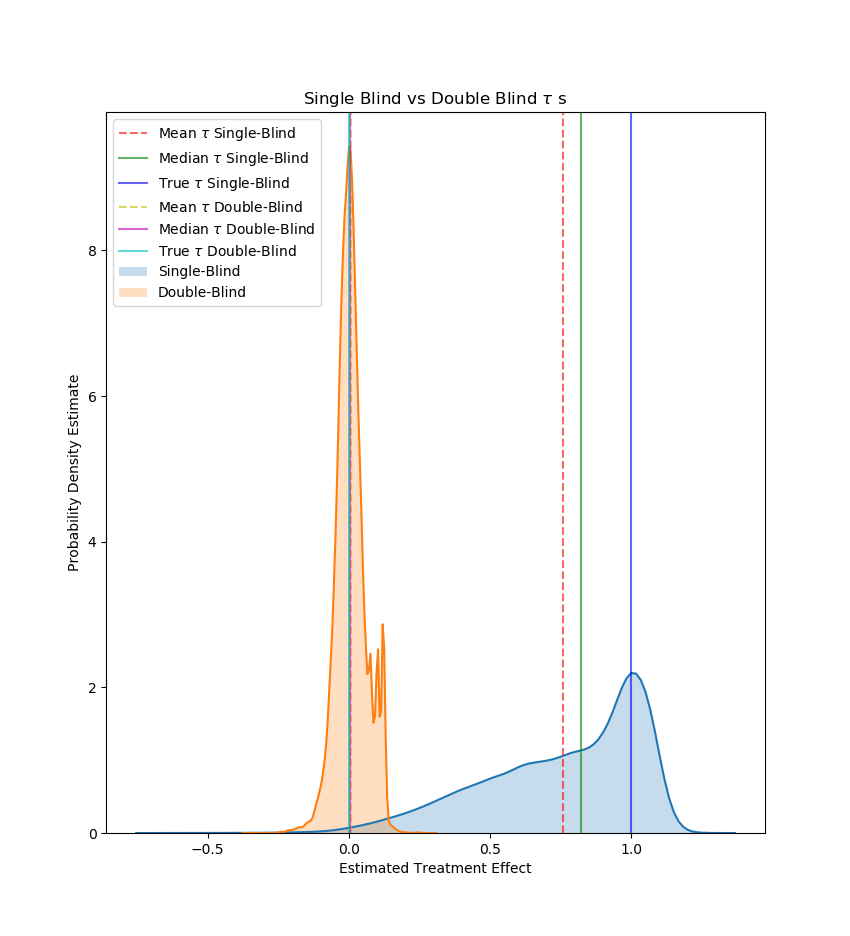
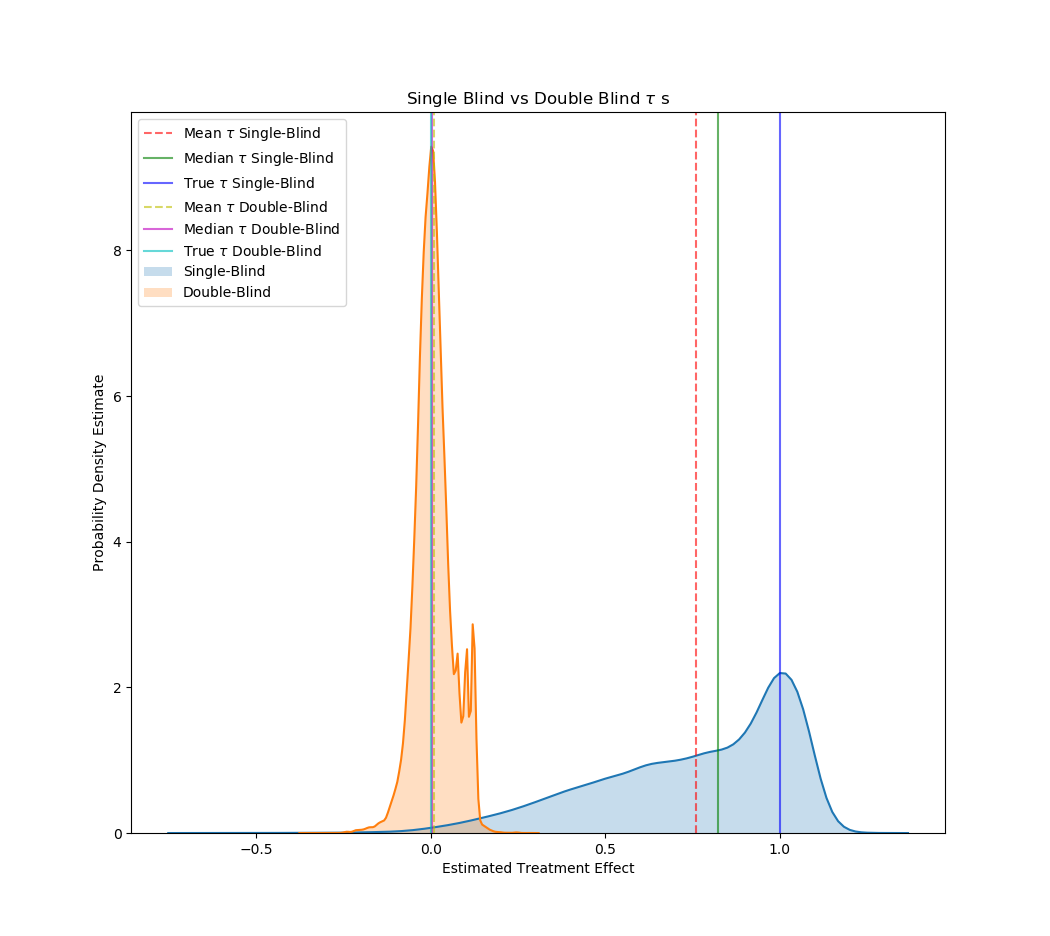
holy cow

diff --git a/experiments/estimation.py b/experiments/estimation.py
@@ -76,7 +76,7 @@ print(',Mean Difference of Reviews (Single-Double), %f'%(review_diff),file=fl)
 print('Single Blind, Mean Difference of Reviews (Treated-Control), %f'%(naive_single_ate),file=fl)
 print('Double Blind, Mean Difference of Reviews (Treated-Control), %f'%(naive_double_ate),file=fl)
 
-fig = plt.figure(figsize=(8.5,9.5))
+fig = plt.figure(figsize=(10.5,9.5))
 sns.distplot(df_single_control['review'],hist=False,kde_kws={'shade': True})
 sns.distplot(df_single_treated['review'],hist=False,kde_kws={'shade': True})
 plt.xlim((0,10))
@@ -86,7 +86,7 @@ plt.legend(['control','treated'])
 plt.title('Single-Blind')
 fig.savefig('Figures/Mean/pdf_single_treated_control_review.png')
 
-fig = plt.figure(figsize=(8.5,9.5))
+fig = plt.figure(figsize=(10.5,9.5))
 sns.distplot(df_double_control['review'],hist=False,kde_kws={'shade': True})
 sns.distplot(df_double_treated['review'],hist=False,kde_kws={'shade': True})
 plt.xlim((0,10))
@@ -117,7 +117,7 @@ mediante_double = np.median(tau_double)
 truth_double= 0.0
 
 
-fig = plt.figure(figsize=(8.5,9.5))
+fig = plt.figure(figsize=(10.5,9.5))
 sns.distplot(tau_single,hist=False,kde_kws={'shade': True})
 sns.distplot(tau_double,hist=False,kde_kws={'shade': True})
 plt.axvline(ate_single,color='r',linestyle='--',alpha=0.6)
@@ -174,7 +174,7 @@ print(',Mean Difference of Reviews (Single-Double), %f'%(review_diff),file=fl)
 print('Single Blind, Mean Difference of Reviews (Treated-Control), %f'%(naive_single_ate),file=fl)
 print('Double Blind, Mean Difference of Reviews (Treated-Control), %f'%(naive_double_ate),file=fl)
 
-fig = plt.figure(figsize=(8.5,9.5))
+fig = plt.figure(figsize=(10.5,9.5))
 sns.distplot(df_single_control['review'],hist=False,kde_kws={'shade': True})
 sns.distplot(df_single_treated['review'],hist=False,kde_kws={'shade': True})
 plt.xlim((0,10))
@@ -184,7 +184,7 @@ plt.legend(['control','treated'])
 plt.title('Single-Blind')
 fig.savefig('Figures/Median/pdf_single_treated_control_review.png')
 
-fig = plt.figure(figsize=(8.5,9.5))
+fig = plt.figure(figsize=(10.5,9.5))
 sns.distplot(df_double_control['review'],hist=False,kde_kws={'shade': True})
 sns.distplot(df_double_treated['review'],hist=False,kde_kws={'shade': True})
 plt.xlim((0,10))
@@ -215,7 +215,7 @@ mediante_double = np.median(tau_double)
 truth_double= 0.0
 
 
-fig = plt.figure(figsize=(8.5,9.5))
+fig = plt.figure(figsize=(10.5,9.5))
 sns.distplot(tau_single,hist=False,kde_kws={'shade': True})
 sns.distplot(tau_double,hist=False,kde_kws={'shade': True})
 plt.axvline(ate_single,color='r',linestyle='--',alpha=0.6)
@@ -274,7 +274,7 @@ print(',Mean Difference of Reviews (Single-Double), %f'%(review_diff),file=fl)
 print('Single Blind, Mean Difference of Reviews (Treated-Control), %f'%(naive_single_ate),file=fl)
 print('Double Blind, Mean Difference of Reviews (Treated-Control), %f'%(naive_double_ate),file=fl)
 
-fig = plt.figure(figsize=(8.5,9.5))
+fig = plt.figure(figsize=(10.5,9.5))
 sns.distplot(df_single_control['review'],hist=False,kde_kws={'shade': True})
 sns.distplot(df_single_treated['review'],hist=False,kde_kws={'shade': True})
 plt.xlim((0,10))
@@ -284,7 +284,7 @@ plt.legend(['control','treated'])
 plt.title('Single-Blind')
 fig.savefig('Figures/Complex_1/pdf_single_treated_control_review.png')
 
-fig = plt.figure(figsize=(8.5,9.5))
+fig = plt.figure(figsize=(10.5,9.5))
 sns.distplot(df_double_control['review'],hist=False,kde_kws={'shade': True})
 sns.distplot(df_double_treated['review'],hist=False,kde_kws={'shade': True})
 plt.xlim((0,10))
@@ -315,7 +315,7 @@ mediante_double = np.median(tau_double)
 truth_double= 0.0
 
 
-fig = plt.figure(figsize=(8.5,9.5))
+fig = plt.figure(figsize=(10.5,9.5))
 sns.distplot(tau_single,hist=False,kde_kws={'shade': True})
 sns.distplot(tau_double,hist=False,kde_kws={'shade': True})
 plt.axvline(ate_single,color='r',linestyle='--',alpha=0.6)
